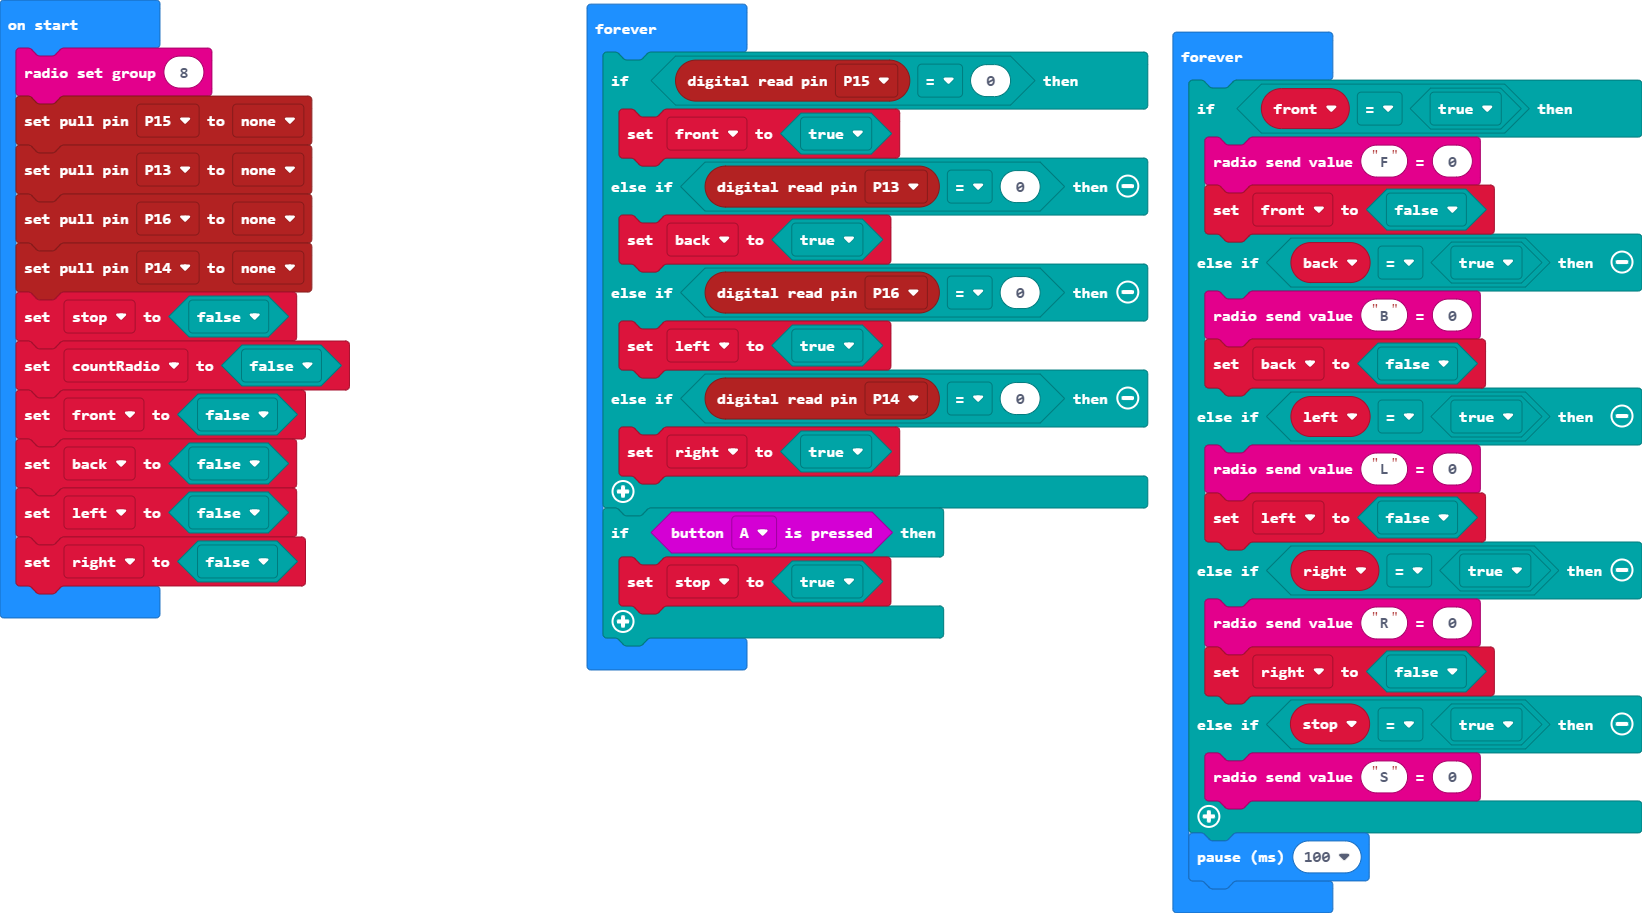
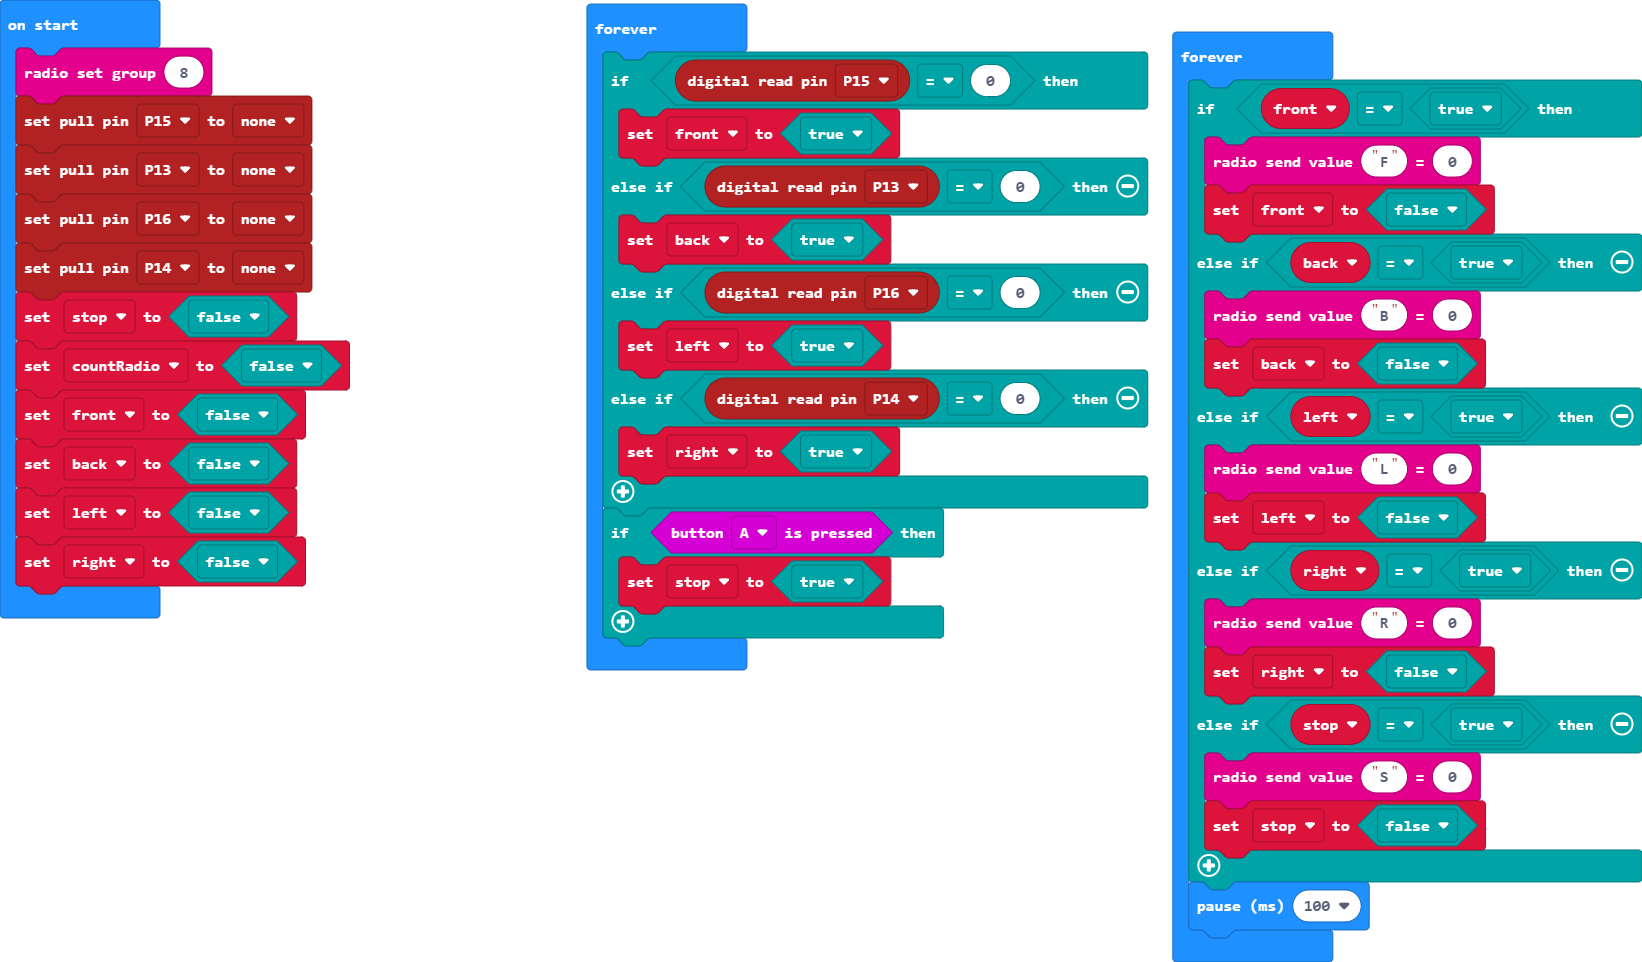
Update main.blocks, main.ts

Changed region(s): [[0.3417, 0.0, 1.0, 0.9814], [0.0, 0.0, 0.2174, 0.7054]]

diff --git a/main.ts b/main.ts
@@ -38,6 +38,7 @@ basic.forever(function () {
         right = false
     } else if (stop == true) {
         radio.sendValue("S", 0)
+        stop = false
     }
     basic.pause(100)
 })
